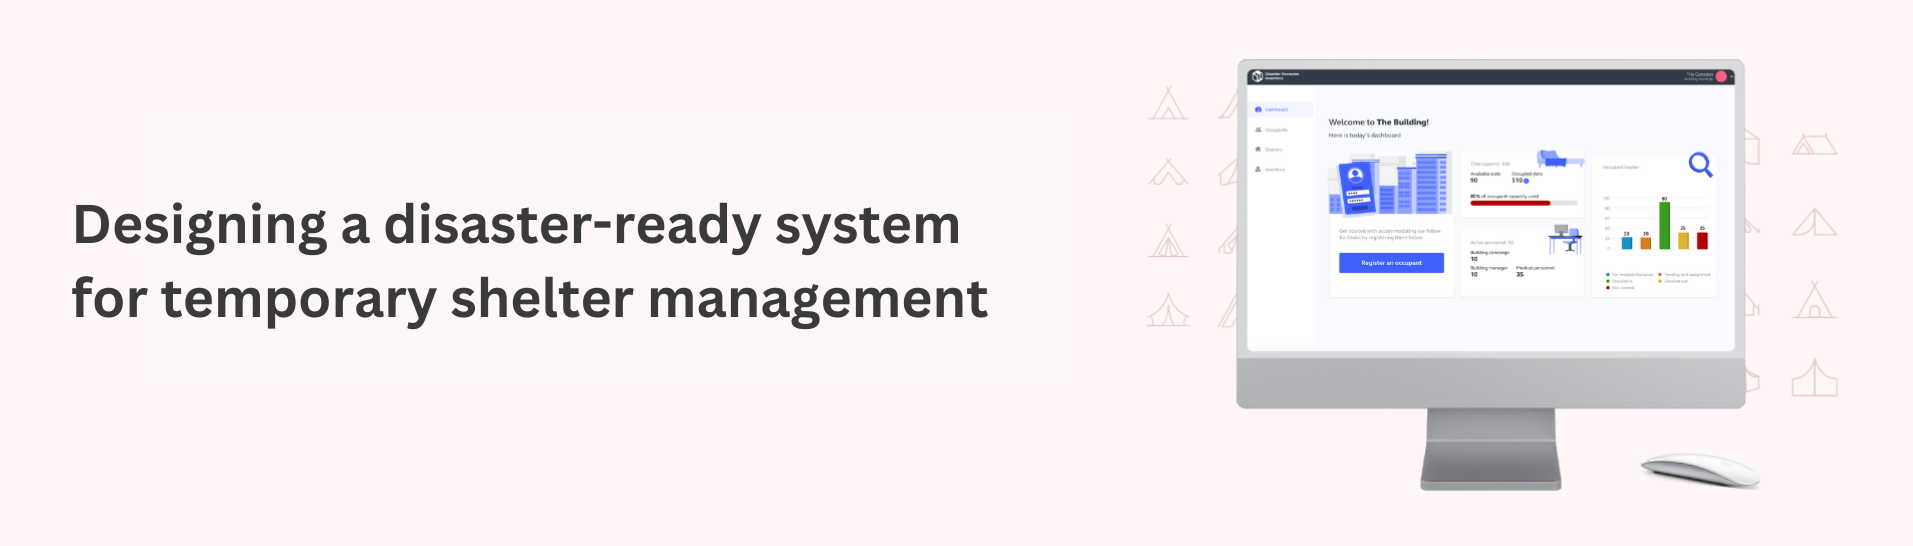
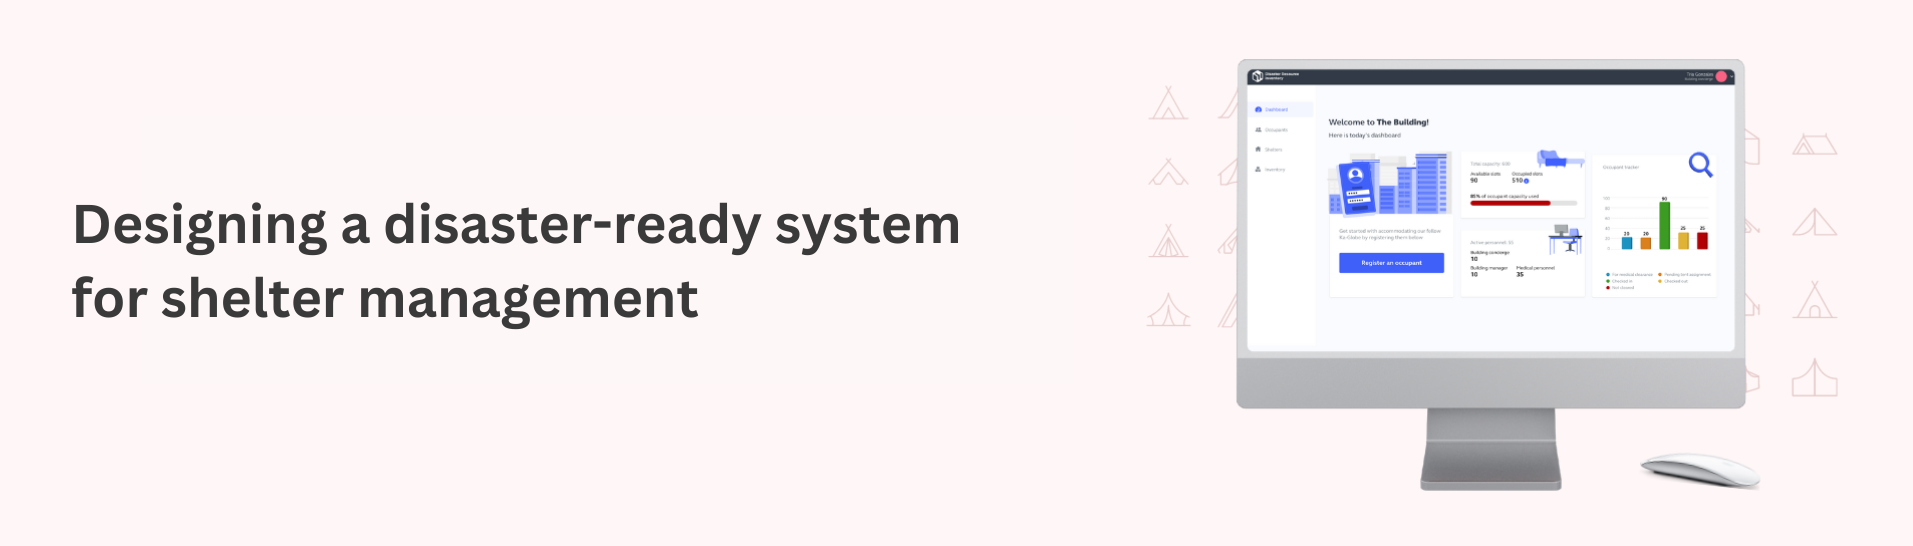
fixes

Changed region(s): [[0.0617, 0.4982, 0.5243, 0.6227]]

diff --git a/guest.html b/guest.html
@@ -2,7 +2,7 @@
   <head>
     <meta charset="utf-8">
     <meta http-equiv="X-UA-Compatible" content="IE=edge">
-    <title>Embracing the future: Improving the guest experience with facial tech</title>
+    <title>Embracing the future: Improving guest experience with facial tech</title>
     <meta name="description" content="">
     <meta name="viewport" content="width=device-width, initial-scale=1">
     <meta name="robots" content="all,follow">
@@ -253,7 +253,7 @@ function closeMenu() {
 
         <center> <a href="img/gu12.png" data-lightbox="image-1" data-title="XXX"> <img class="img-fluid mb-4" style="margin-bottom: 0px !important;" src="img/gu12.png" alt=""></a> 
 
-       <center> <a href="img/gu13.png" data-lightbox="image-1" data-title="XXX"> <img class="img-fluid mb-4" style="margin-bottom: 0px !important;" src="img/gu13.png" alt=""></a> 
+       <center> <a href="img/gu13.png" data-lightbox="image-1" data-title="XXX"> <img class="img-fluid mb-4" style="margin-bottom: 0px !important;" src="img/gu13 .png" alt=""></a> 
        </center> </center> </center>
 
  <p class="text-muted mb-5" style="color:black!important;"><br><br>

diff --git a/shelter.html b/shelter.html
@@ -2,7 +2,7 @@
   <head>
     <meta charset="utf-8">
     <meta http-equiv="X-UA-Compatible" content="IE=edge">
-    <title>Designing a disaster-ready shelter management system</title>
+    <title>Designing a disaster-ready system for shelter management</title>
     <meta name="description" content="">
     <meta name="viewport" content="width=device-width, initial-scale=1">
     <meta name="robots" content="all,follow">
